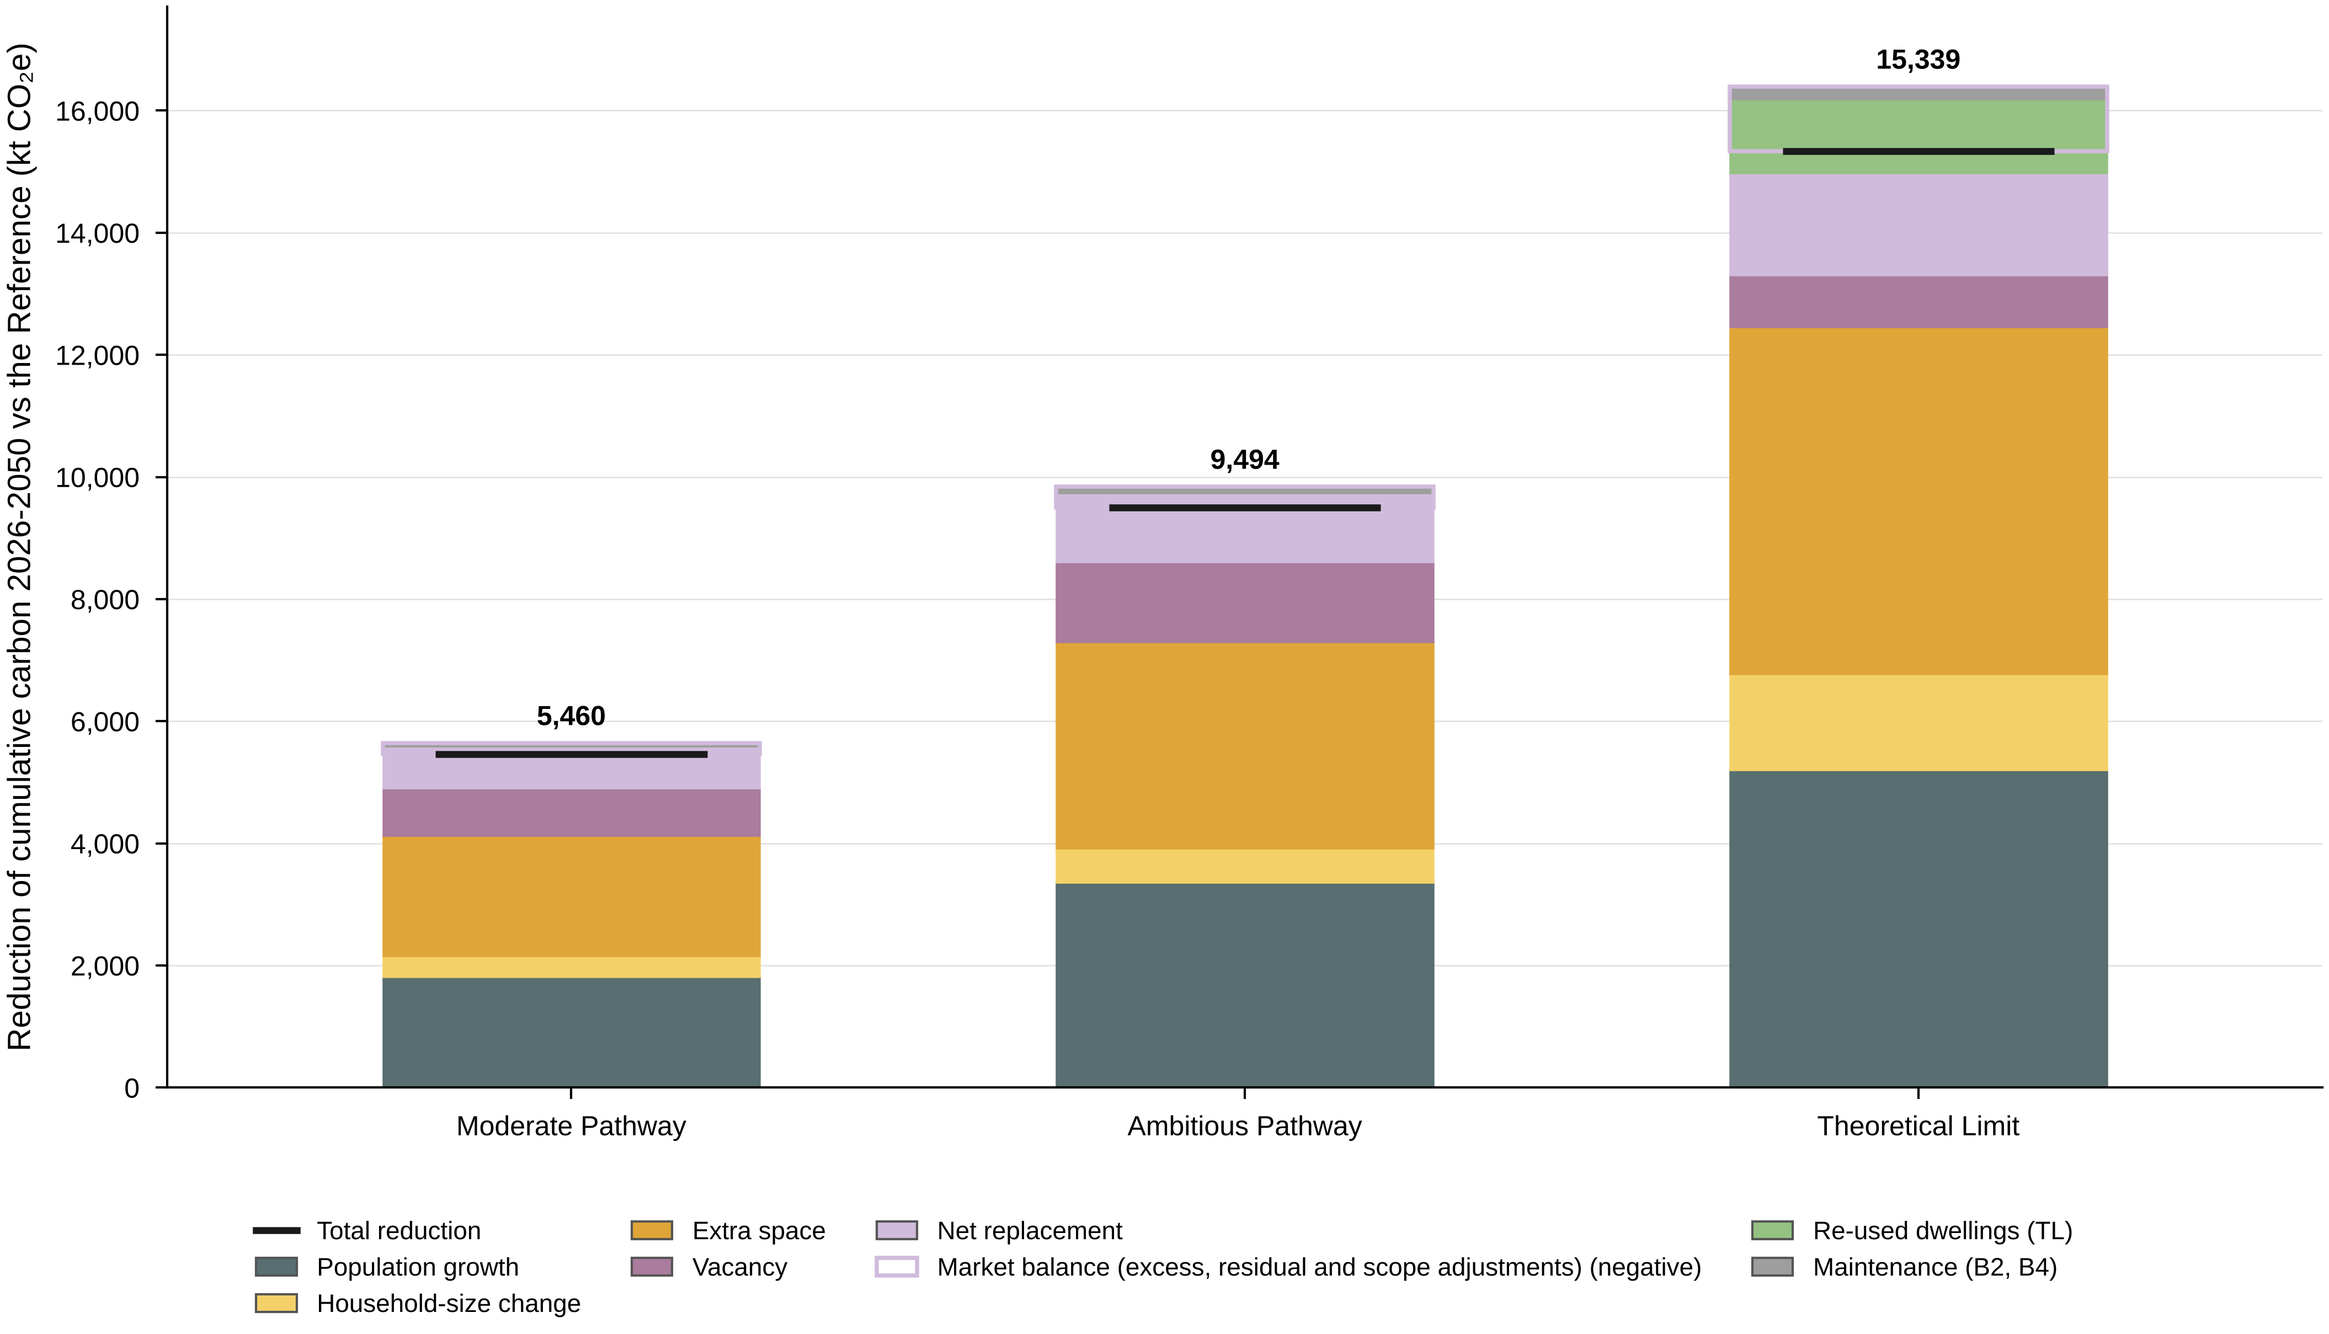
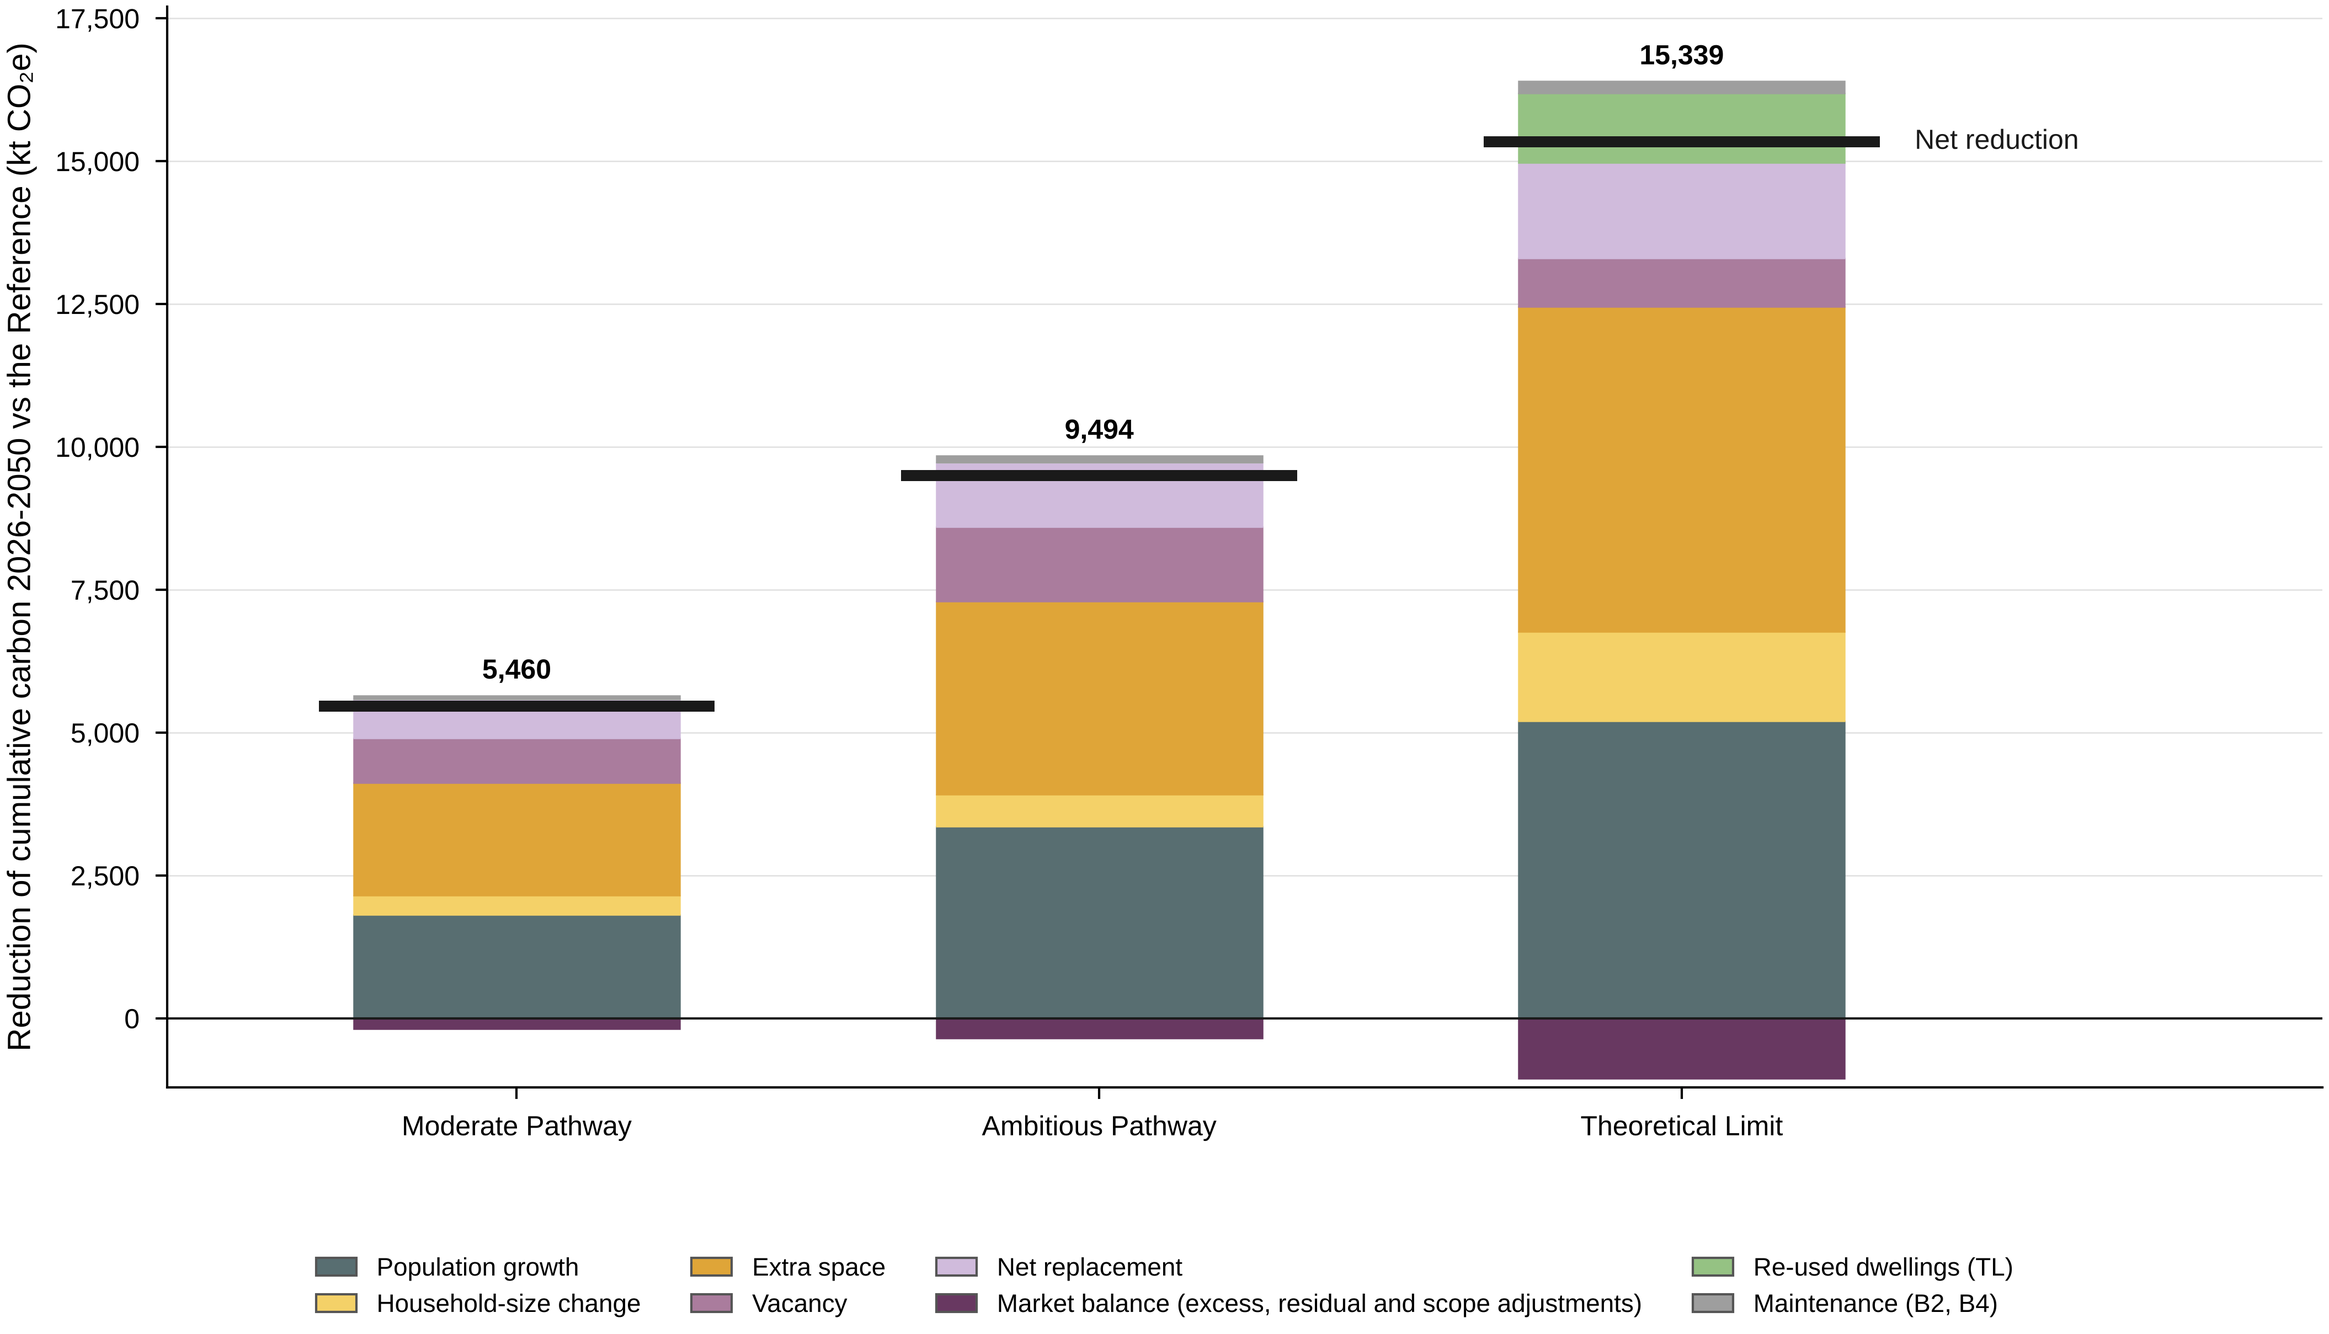
v4.2.1: figure tweaks (Fig2-Fig8 legends and layout; Fig5 signed stacking; Fig8a trimmed); 600 dpi export, data byte-identical
Claude-Session: https://claude.ai/code/session_01NA1ucL7dNsMwx6AQKd8NQE

diff --git a/figures/paper_main.py b/figures/paper_main.py
@@ -336,20 +336,20 @@ def fig2():
         plt.setp(a.get_yticklabels(), visible=False)
     lo_, hi_ = ax[0].get_ylim()
     ticks = [t for t in ax[0].get_yticks() if lo_ <= t <= hi_]
-    ax[0].set_ylim(lo_, hi_ * 1.55)                                   # room above the data for the legends
+    ax[0].set_ylim(lo_, hi_ * 1.25)                                   # room above the data for the legends (tight)
     ax[0].set_yticks(ticks)                                           # ticks only over the data range
     ax[0].set_ylabel('Embodied carbon (kt CO₂e per year)')
-    ax[2].legend(loc='upper right', fontsize=S.FONT_MIN)
+    LEG = dict(loc='upper right', fontsize=S.FONT_MIN, frameon=False, borderaxespad=0.2, labelspacing=0.3)
+    ax[2].legend(**LEG)
     mh = [Patch(label=lab, **P.material_patch(code, c)) for code, lab, c in S.MATERIAL][::-1]
-    ax[1].legend(handles=mh, loc='upper right', fontsize=S.FONT_MIN, ncol=2, columnspacing=0.8)
+    ax[1].legend(handles=mh, ncol=2, columnspacing=0.8, **LEG)
     shown = [b for b in BANDS_MOD.DISPLAY_ORDER if b in band.columns and (band[b].abs() > 1e-12).any()]
     hb2 = paper_band_handles(shown, six=True) + [Line2D([0], [0], color=S.INK, lw=S.LW, label='Carbon (in scope)')]
     for h in hb2:                                                     # MODEL v4.2.1: compact labels inside panel a
         h.set_label({'Market balance (excess, residual and scope adjustments)': 'Market balance',
                      'Household-size change': 'Household size', 'Maintenance (B2, B4)': 'Maintenance'}
                     .get(h.get_label(), h.get_label()))
-    ax[0].legend(handles=hb2, loc='upper left', ncol=2, fontsize=S.FONT_MIN - 0.5, handlelength=0.9,
-                 handletextpad=0.3, columnspacing=0.6, labelspacing=0.25, borderaxespad=0.3)
+    ax[0].legend(handles=hb2, ncol=2, columnspacing=0.8, **LEG)
     # (d) cumulative 2026-2050: three attached columns of the same total
     d = fig.add_subplot(gs[3])
     c = float(total.sum())
@@ -429,9 +429,9 @@ def fig3():
     # MODEL v4.2.1: the Moderate / Ambitious Pathway and the Theoretical Limit (deterministic, pathways/annual.csv)
     pa = D.csv('pathways/annual.csv')
     pa = pa[(pa['scenario'] == 'REF') & (pa['year'] >= 2026)]
-    for run, kw in ((f'{N.PATHWAY}-moderate', dict(color=S.PATHWAY_SETTING['moderate'], lw=S.LW)),
-                    (f'{N.PATHWAY}-ambitious', dict(color=S.PATHWAY_SETTING['ambitious'], lw=S.LW)),
-                    ('TL', dict(color=S.TL, lw=S.LW_THIN + 0.25, ls=':'))):
+    for run, kw in ((f'{N.PATHWAY}-moderate', dict(color=S.PATHWAY_SETTING['moderate'], lw=S.LW, alpha=0.8)),
+                    (f'{N.PATHWAY}-ambitious', dict(color=S.PATHWAY_SETTING['ambitious'], lw=S.LW, alpha=0.8)),
+                    ('TL', dict(color=S.TL, lw=S.LW * 0.7, alpha=0.8))):
         r = pa[pa['run'] == run].set_index('year').loc[years.astype(int), 'carbon_kt']
         ax.plot(years, r.values, label=N.run_label(run), **kw)
     ax.set_xlim(years[0], years[-1])
@@ -546,7 +546,7 @@ def fig4():
     the Ambitious Pathway and (TL1 ... TL9 cumulative) the Theoretical Limit; the annual panel of v3.3.2 is removed
     (the pathway lines are in Fig3a)."""
     paths, bar_, batp = waterfall_paths()
-    fig = plt.figure(figsize=S.figsize('double', 105))
+    fig = plt.figure(figsize=S.figsize('double', 79))
     gs = fig.add_gridspec(1, 3, wspace=0.08)
     ax = [fig.add_subplot(gs[0, 0])]
     ax += [fig.add_subplot(gs[0, k], sharey=ax[0]) for k in (1, 2)]
@@ -562,7 +562,7 @@ def fig4():
     P.thousands(ax[0].yaxis)
     hs = [Patch(label=f'{St} {N.STRATEGIES[St]}', **S.fill(S.STRATEGY[St])) for St in N.STRATEGIES]
     ax[2].legend(handles=hs, loc='upper right', fontsize=S.FONT_MIN, title='Waterfall steps', title_fontsize=S.FONT_MIN)
-    fig.subplots_adjust(left=0.08, right=0.99, top=0.93, bottom=0.2)
+    fig.subplots_adjust(left=0.08, right=0.99, top=0.92, bottom=0.26)
     up_txt = '; '.join(f'{k}: ' + ', '.join(f'{s} {d:+,.1f} kt' for s, d in v) for k, v in ups.items() if v)
     r = D.csv('pathways/runs.csv')
     r = r[r['scenario'] == 'REF'].set_index('run')
@@ -610,14 +610,21 @@ def fig5():
     x = np.arange(len(FIG5_RUNS), dtype=float)
     bands = [b for b in red[FIG5_RUNS[0]] if any(abs(red[r][b]) > 1e-9 for r in FIG5_RUNS)]
     parts = [(b, np.array([red[r][b] for r in FIG5_RUNS])) for b in bands]
-    up, dn, end = P.bars_cumulative(ax, x, parts, 0.56, net=np.array([tot[r] for r in FIG5_RUNS]))
+    # MODEL v4.2.1: positive band reductions stacked up from zero, negative ones stacked below zero; the net marker
+    up, dn = P.stack_bars(ax, x, parts, 0.56, net=np.array([tot[r] for r in FIG5_RUNS]))
+    for xi, r in zip(x, FIG5_RUNS):
+        ax.plot([xi - 0.34, xi + 0.34], [tot[r], tot[r]], color=S.INK, lw=S.LW_BOLD * 1.6, solid_capstyle='butt',
+                zorder=6)
+    ax.annotate('Net reduction', xy=(x[-1] + 0.34, tot[FIG5_RUNS[-1]]), xytext=(x[-1] + 0.40, tot[FIG5_RUNS[-1]]),
+                va='center', ha='left', fontsize=S.FONT_SMALL, color=S.INK)
     for xi, r, u in zip(x, FIG5_RUNS, up):
         ax.text(xi, u + 0.012 * max(up), f'{tot[r]:,.0f}', ha='center', va='bottom', fontsize=S.FONT_SMALL,
                 fontweight='bold')
     ax.set_xticks(x)
     ax.set_xticklabels([N.PATHWAY_RUNS.get(r, N.TL['TL']) for r in FIG5_RUNS])
-    ax.set_xlim(-0.6, len(x) - 0.4)
-    ax.set_ylim(0, max(up) * 1.08)
+    ax.set_xlim(-0.6, len(x) - 0.4 + 0.5)                               # room for the net-marker label
+    ax.set_ylim(min(0.0, float(min(dn)) * 1.15), max(up) * 1.08)
+    ax.axhline(0, color=S.INK, lw=S.LW_THIN)
     ax.set_ylabel('Reduction of cumulative carbon 2026-2050 vs the Reference (kt CO₂e)')
     P.thousands(ax.yaxis)
     ax.grid(axis='x', visible=False)
@@ -625,17 +632,13 @@ def fig5():
     hb = []
     for b in bands[::-1]:                                                # top of the stack first
         lab = BANDS_MOD.DISPLAY_LABEL.get(b, P.band_label(b))
-        if b in negb and not any(red[r][b] > 1e-9 for r in FIG5_RUNS):
-            hb.append(Patch(label=f'{lab} (negative)', **P.negative_bar_style(b)))
-        else:
-            hb.append(Patch(label=lab, **dict(P.band_style(b), edgecolor='#555555', linewidth=S.LW_THIN)))
-    hb.append(Line2D([0], [0], color=S.INK, lw=S.LW_BOLD, label='Total reduction'))
+        hb.append(Patch(label=lab, **dict(P.band_style(b), edgecolor='#555555', linewidth=S.LW_THIN)))
     fig.legend(handles=hb[::-1], loc='lower center', ncol=4, fontsize=S.FONT_MIN + 0.5, frameon=False,
                bbox_to_anchor=(0.5, 0.0))
     fig.tight_layout(rect=(0, 0.12, 1, 1))
     _save(fig, 'Fig5_reduction_by_demand',
           note='Reduction vs the Reference (kt): ' + ', '.join(f'{N.run_label(r)} {tot[r]:,.0f}' for r in FIG5_RUNS)
-               + '. Negative band reductions (outlined): ' + '; '.join(
+               + '. Negative band reductions (stacked below zero): ' + '; '.join(
                    f"{P.band_label(b)} " + ', '.join(f'{red[r][b]:+,.0f}' for r in FIG5_RUNS) for b in bands if b in negb)
                + ' kt (Moderate, Ambitious, TL): the credits from re-used dwellings shrink when new dwellings are '
                'smaller, because each re-used dwelling is valued at the new-dwelling size it displaces.')
@@ -732,8 +735,8 @@ def fig6():
     g = np.linspace(lo, hi, FIG6_N)
     X, Y = np.meshgrid(g, g)
     Z = fig6_loe(bc, X, Y)
-    fig = plt.figure(figsize=S.figsize('double', 118))
-    ax = fig.add_axes([0.08, 0.12, 0.52, 0.82])
+    fig = plt.figure(figsize=S.figsize('double', 126))
+    ax = fig.add_axes([0.08, 0.21, 0.52, 0.755])
     S.boundary_field(ax, 100 * X, 100 * Y, Z, 1.0, atp_level, lines=False)
     st = {k: v for k, v in S.BOUNDARY['AR'].items() if k != 'label'}
     for xb, yb in fig6_branches(bc, 1.0):                          # the AR line, exact
@@ -764,7 +767,7 @@ def fig6():
     ax.set_ylim(100 * lo, 100 * hi)
     ax.grid(False)
     # the LoE AR ruler (log): zones, AR and AtP, the plane floor and the runs
-    ru = fig.add_axes([0.625, 0.12, 0.018, 0.82])
+    ru = fig.add_axes([0.625, 0.21, 0.018, 0.755])
     marks = [(N.SCENARIOS['REF'], float(runs['REF']), dict(color=S.REFERENCE, marker='s', ms=4)),
              (N.PATHWAY_RUNS['pathway-moderate'], float(runs['pathway-moderate']),
               dict(color=S.PATHWAY[N.PATHWAY], marker='o', ms=5)),
@@ -803,7 +806,9 @@ def fig6():
           Line2D([0], [0], ls='none', color=S.TL, label=N.TL['TL'], **S.TL_MARKER),
           Line2D([0], [0], ls='none', color=S.REFERENCE, marker='s', ms=4, label=f"{N.SCENARIOS['REF']} (ruler)")]
     h += S.boundary_handles() + S.zone_handles()
-    fig.legend(handles=h, loc='center left', bbox_to_anchor=(0.80, 0.5), frameon=False, fontsize=S.FONT_MIN + 0.5)
+    h = [x for x in h if x.get_label() != S.ZONE['within_both']['label']]
+    fig.legend(handles=h, loc='lower center', bbox_to_anchor=(0.45, 0.0), ncol=3, frameon=False,
+               fontsize=S.FONT_MIN + 0.5)
     note = (f"LoE AR = [{c26:,.0f} + {r['carbon_2027_2050_cohorts_kt']:,.0f} (1 - x)(1 - y)] / {bc['B_AR_kt']:,.0f} kt; "
             f"C_2026 = the 2026 cohort's emissions in the window; plane floor C_2026 / B_AR = {floor:.3f} (the lowest "
             f"LoE AR at x or y = 100%); AtP = B_AtP / B_AR = {atp_level:.3f} lies below the floor, so the AtP contour is "
@@ -830,7 +835,7 @@ def fig7():
     alone = {k: {L: float(r['REF'] - r[f'{L}-{k}']) for L in N.LEVERS} for k in ('moderate', 'ambitious', 'tl')}
     order = list(N.LEVERS)                                     # top to bottom: L1 .. L9
     y = np.arange(len(order))[::-1]
-    fig, ax = plt.subplots(1, 2, figsize=S.figsize('double', 95), sharey=True)
+    fig, ax = plt.subplots(1, 2, figsize=S.figsize('double', 72), sharey=True)
     for a, val, xlab, letter, title in (
             (ax[0], alone, 'Reduction of cumulative carbon 2026-2050 vs the Reference (kt CO₂e)', 'a',
              'Each lever alone'),
@@ -856,11 +861,11 @@ def fig7():
     ax[0].set_yticks(y)
     ax[0].set_yticklabels([f'{L} {N.LEVERS[L]}' for L in order])
     ax[0].set_ylim(-0.6, len(order) - 0.4)
-    ax[1].legend(handles=[Patch(facecolor='none', edgecolor=S.MUTED, label='Moderate (Level 2)'),
-                          Patch(facecolor=S.MUTED, edgecolor=S.MUTED, label='Ambitious (Level 3)'),
-                          Line2D([0], [0], ls='none', color=S.TL, label='Theoretical limit (Level 4)', **S.TL_MARKER)],
-                 loc='lower right', fontsize=S.FONT_MIN)
-    fig.tight_layout(rect=(0, 0, 0.92, 1))
+    fig.legend(handles=[Patch(facecolor='none', edgecolor=S.MUTED, label='Moderate (Level 2)'),
+                        Patch(facecolor=S.MUTED, edgecolor=S.MUTED, label='Ambitious (Level 3)'),
+                        Line2D([0], [0], ls='none', color=S.TL, label='Theoretical limit (Level 4)', **S.TL_MARKER)],
+               loc='lower center', ncol=3, fontsize=S.FONT_MIN + 0.5, frameon=False, bbox_to_anchor=(0.5, 0.0))
+    fig.tight_layout(rect=(0, 0.07, 0.95, 1))
     tot = {k: v.sum() for k, v in g.items()}
     _save(fig, 'Fig7_shapley_levers',
           note='(a) Standalone: each lever alone vs the Reference (not additive). (b) Shapley shares within each '
@@ -941,8 +946,10 @@ def fig8():
     rows = [r if len(r) == 5 else r + (None,) for r in rows]
     span = lambda r: abs(r[4] - c0) if r[4] is not None else abs(r[2] - r[1])
     rows = sorted(rows, key=span)
+    k_cr = [r[0] for r in rows].index('Completion rate (0.93–0.96)')    # MODEL v4.2.1: Completion rate and below only
+    rows = rows[:k_cr + 1]
     has_single = any(r[4] is not None for r in rows)
-    fig, ax = plt.subplots(1, 2, figsize=S.figsize('double', 96), gridspec_kw={'width_ratios': [1.25, 1]})
+    fig, ax = plt.subplots(1, 2, figsize=S.figsize('double', 77), gridspec_kw={'width_ratios': [1.25, 1]})
     a = ax[0]
     for k, (lab, lo, hi, mid, one) in enumerate(rows):
         bars = ((one, SINGLE_CASE),) if one is not None else ((lo, LOW_END), (hi, HIGH_END))

diff --git a/figures/draw.py b/figures/draw.py
@@ -188,6 +188,23 @@ def stack_series(ax, x, parts, net=None, net_line=True, net_label='Net total', *
     return up, dn
 
 
+def stack_bars(ax, x, parts, width, net=None):
+    """MODEL v4.2.1: bars by band, positive values stacked up from zero and negative values stacked down from zero
+    (fixed order), each segment filled in its band style; net: the totals to check against (1e-9). Returns (up, down)."""
+    x = np.atleast_1d(np.asarray(x, float))
+    up, dn = np.zeros(len(x)), np.zeros(len(x))
+    for bid, v in parts:
+        v = np.broadcast_to(np.asarray(v, float), x.shape)
+        pos, neg = np.clip(v, 0, None), np.clip(v, None, 0)
+        if np.any(pos > 0):
+            ax.bar(x, pos, bottom=up, width=width, gid='band_segment', **band_style(bid))
+        if np.any(neg < 0):
+            ax.bar(x, neg, bottom=dn, width=width, gid=NEG_GID, **band_style(bid))
+        up, dn = up + pos, dn + neg
+    _check_net(up, dn, net, 'stack_bars')
+    return up, dn
+
+
 def negative_bar_style(bid):
     colour = (S.BAND[bid][0] if bid in S.BAND else S.HISTORY_BAND[bid][0] if bid in S.HISTORY_BAND
               else S.BAND['replacement'][0])

diff --git a/outputs/FIGURES.md b/outputs/FIGURES.md
@@ -42,7 +42,7 @@ Run profile: **full** (5,000 Monte Carlo draws; formats png at 600 dpi). Every f
 
 - Files: `paper_main/Fig5_reduction_by_demand.png`
 - Data: `data/pathways/bands.csv`, `data/pathways/runs.csv`
-- This run: Reduction vs the Reference (kt): Moderate Pathway 5,460, Ambitious Pathway 9,494, Theoretical Limit 15,339. Negative band reductions (outlined): Market balance (excess, residual and scope adjustments) -185, -348, -1,056 kt (Moderate, Ambitious, TL): the credits from re-used dwellings shrink when new dwellings are smaller, because each re-used dwelling is valued at the new-dwelling size it displaces.
+- This run: Reduction vs the Reference (kt): Moderate Pathway 5,460, Ambitious Pathway 9,494, Theoretical Limit 15,339. Negative band reductions (stacked below zero): Market balance (excess, residual and scope adjustments) -185, -348, -1,056 kt (Moderate, Ambitious, TL): the credits from re-used dwellings shrink when new dwellings are smaller, because each re-used dwelling is valued at the new-dwelling size it displaces.
 
 ### Fig6_solution_space
 

diff --git a/docs/CHANGELOG_v4_2_1.md b/docs/CHANGELOG_v4_2_1.md
@@ -29,3 +29,4 @@ Branch `release/model-v4.2.1`, from `release/model-v4.2.0`. `HH_SIZE_PATH` stays
   * (b) Shapley share (%) within each game.
   * The single-lever ED figure is deleted; the old ED8–ED11 become ED7–ED10, so there are 10 ED items again.
 * **Fig8** — caption note on the flat left tail.
+* Figure tweaks (one 600 dpi export, data byte-identical): Fig2 legends unframed and tight; Fig3 lines at alpha 0.8, TL solid and thinner; Fig4 25% lower; Fig5 negatives stacked below zero with a labelled net marker and a 4 × 2 legend; Fig6 legend below the plot (3 columns, without the 'Within both budgets' entry); Fig7 shorter, legend below (3 columns); Fig8a rows from Completion rate down only, figure 20% lower.
